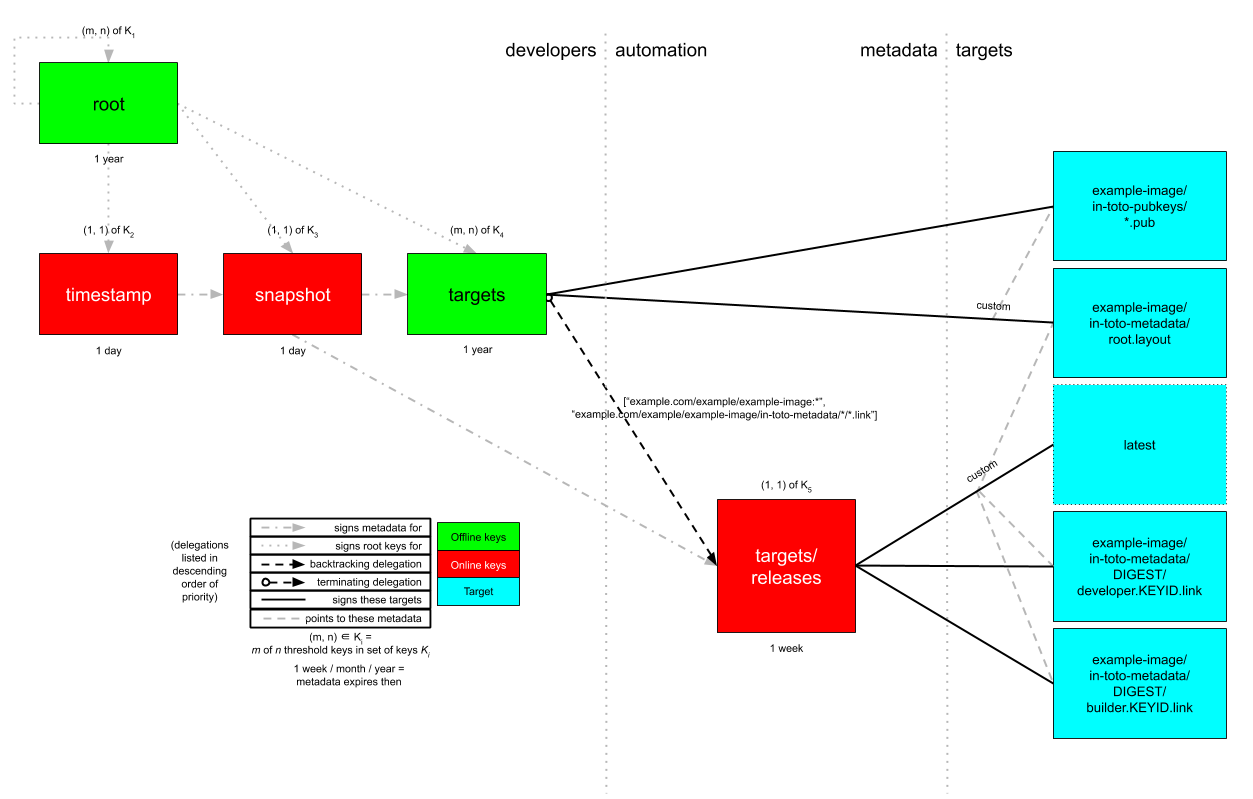
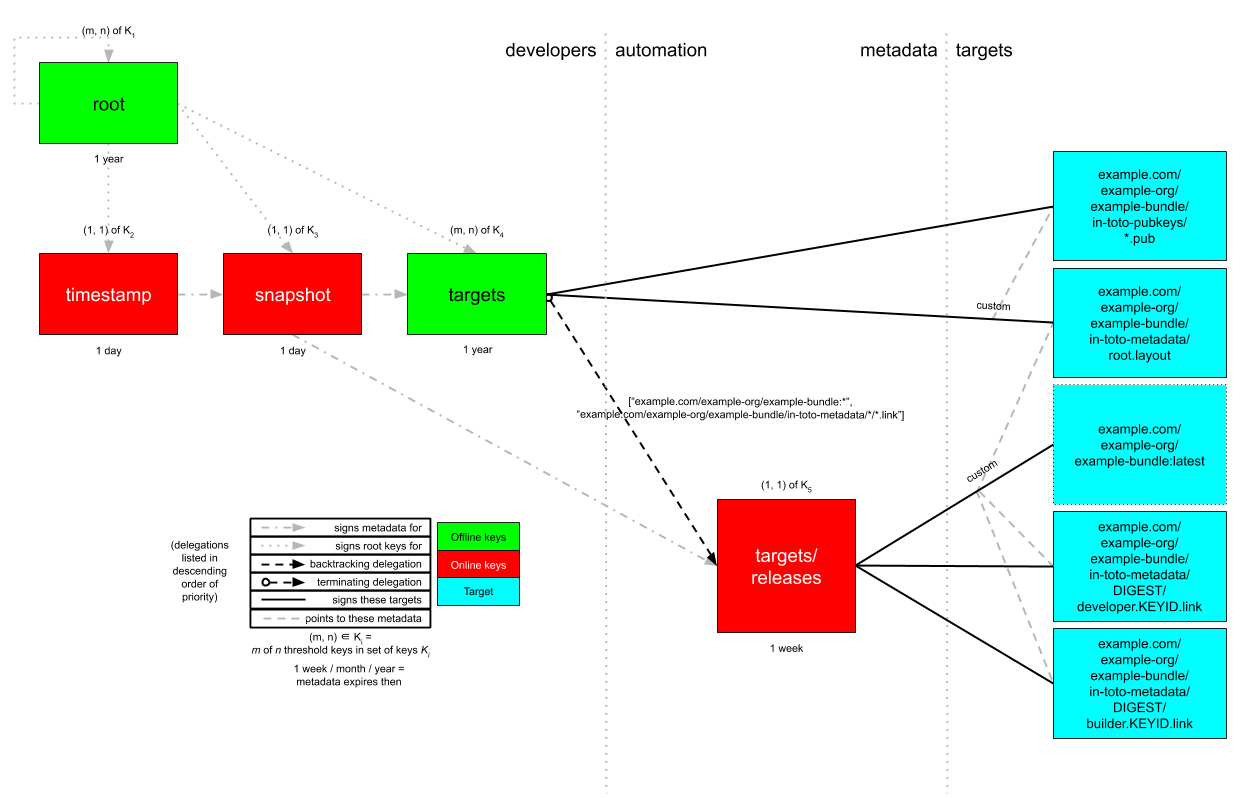
fix references to example bundle in 301

diff --git a/301-metadata-repositories.md b/301-metadata-repositories.md
@@ -91,12 +91,12 @@ This subsection discusses how to extend the MVP to verify the provenance of bund
 Instead of signing for new versions of a bundle itself, the `targets` role here SHOULD sign targets metadata about:
 
 1. The in-toto [root layout](300-CNAB-security.md) for this collection of bundles (e.g., `example.com/example-org/example-bundle/in-toto-metadata/root.layout`).
-1. All the public keys needed to verify this root layout in the first place (e.g., `example-org/example-bundle/in-toto-pubkeys/*.pub`).
+1. All the public keys needed to verify this root layout in the first place (e.g., `example.com/example-org/example-bundle/in-toto-pubkeys/*.pub`).
 
-The `targets` role SHOULD delegate all versions of the bundle (e.g., `example.com/example-org/example-bundle:*`) as well as associated in-toto link metadata (e.g., `example-org/example-bundle/in-toto-metadata/*/*.link`) to the `targets/releases` role. Therefore, the `targets/releases` role SHOULD sign targets metadata about:
+The `targets` role SHOULD delegate all versions of the bundle (e.g., `example.com/example-org/example-bundle:*`) as well as associated in-toto link metadata (e.g., `example.com/example-org/example-bundle/in-toto-metadata/*/*.link`) to the `targets/releases` role. Therefore, the `targets/releases` role SHOULD sign targets metadata about:
 
 1. All available versions of the bundle (e.g., `example.com/example-org/example-bundle:*`).
-1. All the in-toto [link metadata](300-CNAB-security.md) associated with available bundles (e.g., `example-org/example-bundle/in-toto-metadata/*/*.link`).
+1. All the in-toto [link metadata](300-CNAB-security.md) associated with available bundles (e.g., `example.com/example-org/example-bundle/in-toto-metadata/*/*.link`).
 
 With regard to the last bullet point, the `targets/releases` role SHOULD include [custom targets metadata](300-CNAB-security.md) about every version of a bundle such that:
 
@@ -121,8 +121,8 @@ The following code listing is an example of the `targets` metadata for a bundle:
           "keyids": [...],
           "name": "targets/releases",
           "paths": [
-            "example.com/example/example-image:*",
-            "example.com/example/example-image/in-toto-metadata/*/*.link"
+            "example.com/example-org/example-bundle:*",
+            "example.com/example-org/example-bundle/in-toto-metadata/*/*.link"
           ],
           "threshold": 1
         }
@@ -180,8 +180,8 @@ The following code listing is an example of the `targets/releases` metadata for 
         "custom": {
           "in-toto": [
             "example.com/example-org/example-bundle/in-toto-metadata/root.layout",
-            "example.com/example-org/example-image/in-toto-metadata/eb4189fc29d97463822ecd6409677e9a4fcb9d66d9bee392e9f9aece0917fc09/step1.87d52666.link",
-            "example.com/example-org/example-image/in-toto-metadata/eb4189fc29d97463822ecd6409677e9a4fcb9d66d9bee392e9f9aece0917fc09/step2.20585de1.link"
+            "example.com/example-org/example-bundle/in-toto-metadata/eb4189fc29d97463822ecd6409677e9a4fcb9d66d9bee392e9f9aece0917fc09/step1.87d52666.link",
+            "example.com/example-org/example-bundle/in-toto-metadata/eb4189fc29d97463822ecd6409677e9a4fcb9d66d9bee392e9f9aece0917fc09/step2.20585de1.link"
           ]
         },
         "hashes": {
@@ -189,13 +189,13 @@ The following code listing is an example of the `targets/releases` metadata for 
         },
         "length": 7206
       },
-      "example.com/example-org/example-image/in-toto-metadata/eb4189fc29d97463822ecd6409677e9a4fcb9d66d9bee392e9f9aece0917fc09/step1.87d52666.link": {
+      "example.com/example-org/example-bundle/in-toto-metadata/eb4189fc29d97463822ecd6409677e9a4fcb9d66d9bee392e9f9aece0917fc09/step1.87d52666.link": {
         "hashes": {
[1 lines of base64/hex data omitted]
         },
         "length": 132251
       },
-      "example.com/example-org/example-image/in-toto-metadata/eb4189fc29d97463822ecd6409677e9a4fcb9d66d9bee392e9f9aece0917fc09/step2.20585de1.link": {
+      "example.com/example-org/example-bundle/in-toto-metadata/eb4189fc29d97463822ecd6409677e9a4fcb9d66d9bee392e9f9aece0917fc09/step2.20585de1.link": {
         "hashes": {
[1 lines of base64/hex data omitted]
         },
